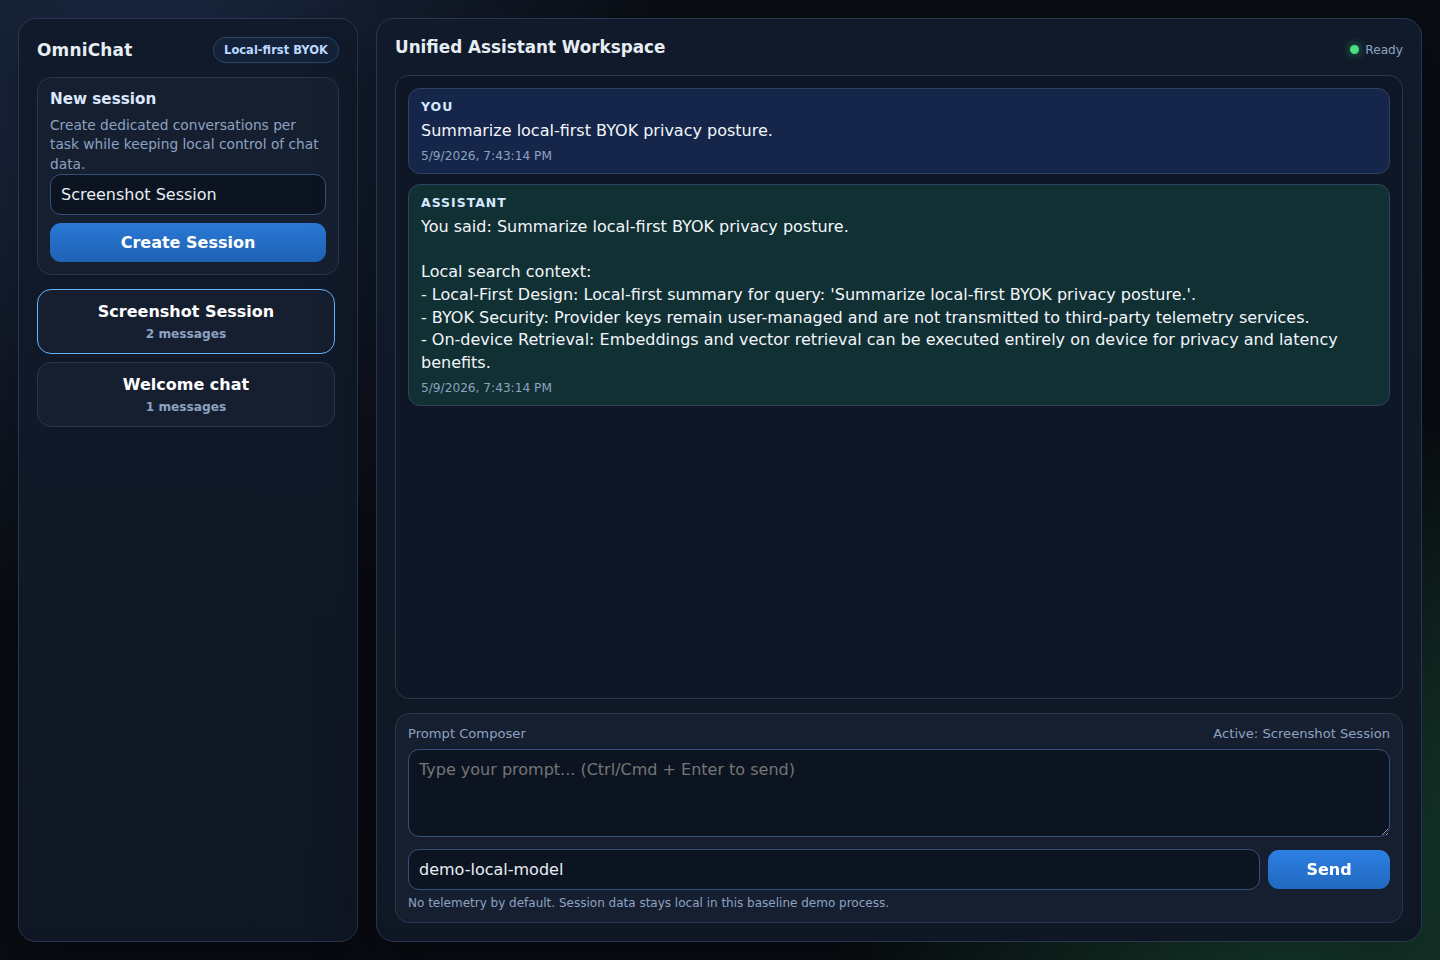
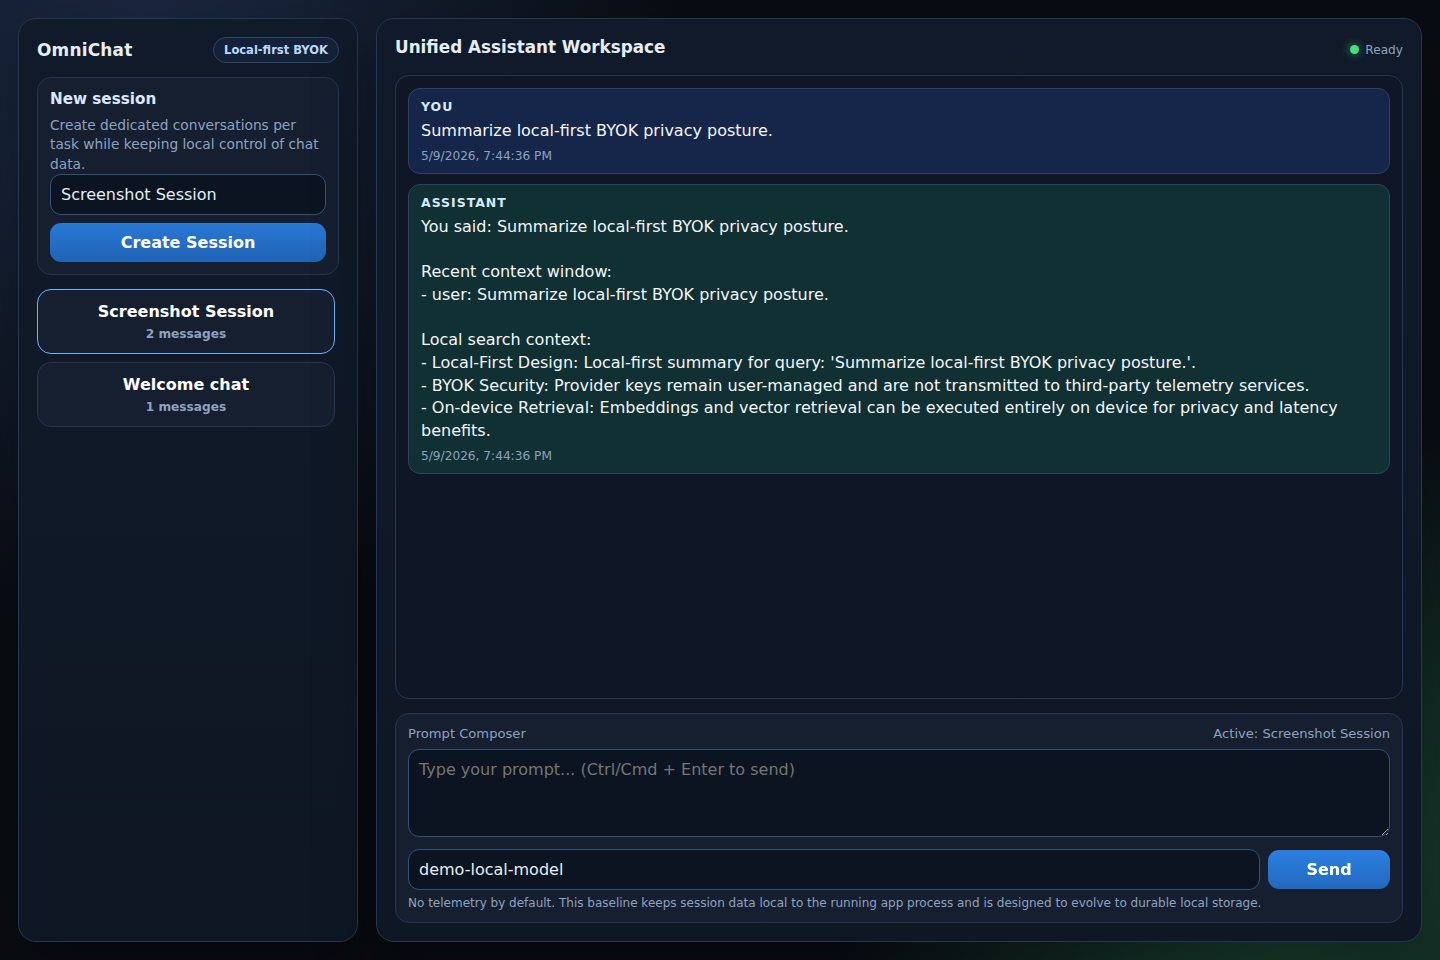
fix: address review feedback on portability and token budgeting
Agent-Logs-Url: https://github.com/kchaitanya863/OmniChat/sessions/a1031c1b-4521-4e93-ab85-afe652b6c09d

Changed region(s): [[0.2812, 0.2812, 0.9688, 0.5], [0.4062, 0.9375, 0.875, 0.9688], [0.3438, 0.1562, 0.375, 0.1875]]

diff --git a/src/OmniChat.Web/wwwroot/index.html b/src/OmniChat.Web/wwwroot/index.html
@@ -328,7 +328,7 @@
           <button id="sendBtn">Send</button>
         </div>
         <div id="errorBox" class="error" role="alert"></div>
-        <div class="hint">No telemetry by default. Session data stays local in this baseline demo process.</div>
+        <div class="hint">No telemetry by default. This baseline keeps session data local to the running app process and is designed to evolve to durable local storage.</div>
       </section>
     </main>
   </div>

diff --git a/src/OmniChat.Core/Services/TokenBudgetManager.cs b/src/OmniChat.Core/Services/TokenBudgetManager.cs
@@ -19,6 +19,14 @@ public static class TokenBudgetManager
             var tokens = TokenEstimator.EstimateTokens(message.Content);
             if (consumed + tokens > tokenBudget)
             {
+                var remaining = tokenBudget - consumed;
+                var truncated = TruncateToApproximateTokens(message.Content, remaining);
+                if (truncated is not null)
+                {
+                    stack.Push(message with { Content = truncated });
+                    consumed = tokenBudget;
+                }
+
                 continue;
             }
 
@@ -27,5 +35,28 @@ public static class TokenBudgetManager
         }
 
         return stack.ToArray();
+    }
+
+    private static string? TruncateToApproximateTokens(string content, int maxTokens)
+    {
+        if (maxTokens <= 0 || string.IsNullOrWhiteSpace(content))
+        {
+            return null;
+        }
+
+        var words = content.Split([' ', '\t', '\n', '\r'], StringSplitOptions.RemoveEmptyEntries);
+        if (words.Length == 0)
+        {
+            return null;
+        }
+
+        var keepWords = Math.Max(1, (int)Math.Floor(maxTokens / 1.3));
+        if (keepWords >= words.Length)
+        {
+            return content;
+        }
+
+        var start = words.Length - keepWords;
+        return "… " + string.Join(' ', words, start, keepWords);
     }
 }

diff --git a/src/OmniChat.Web/Program.cs b/src/OmniChat.Web/Program.cs
@@ -64,8 +64,10 @@ app.MapPost("/api/sessions/{sessionId}/messages", async (
     var userMessage = new ChatMessage("user", request.Content.Trim(), DateTimeOffset.UtcNow, request.ProviderId, request.Model);
     await chats.AddMessageAsync(sessionId, userMessage, cancellationToken);
 
+    var contextForReply = TokenBudgetManager.FitToBudget(session.Messages, 220);
     var evidence = await search.SearchAsync(request.Content, cancellationToken);
-    var reply = $"You said: {request.Content}\n\nLocal search context:\n- {string.Join("\n- ", evidence.Select(e => $"{e.Title}: {e.Snippet}"))}";
+    var shortContext = contextForReply.TakeLast(3).Select(static m => $"{m.Role}: {m.Content}");
+    var reply = $"You said: {request.Content}\n\nRecent context window:\n- {string.Join("\n- ", shortContext)}\n\nLocal search context:\n- {string.Join("\n- ", evidence.Select(e => $"{e.Title}: {e.Snippet}"))}";
 
     var assistantMessage = new ChatMessage("assistant", reply, DateTimeOffset.UtcNow, request.ProviderId, request.Model);
     await chats.AddMessageAsync(sessionId, assistantMessage, cancellationToken);

diff --git a/tests/OmniChat.Core.Tests/CoreServicesTests.cs b/tests/OmniChat.Core.Tests/CoreServicesTests.cs
@@ -34,8 +34,24 @@ public sealed class TokenBudgetTests
 
         var limited = TokenBudgetManager.FitToBudget(messages, tokenBudget: 13);
 
+        Assert.Equal(2, limited.Count);
+        Assert.StartsWith("… ", limited[0].Content, StringComparison.Ordinal);
+        Assert.Equal("latest latest latest latest latest", limited[1].Content);
+    }
+
+    [Fact]
+    public void FitToBudget_IncludesTruncatedMostRecentMessage_WhenNothingFitsFully()
+    {
+        var now = DateTimeOffset.UtcNow;
+        var messages = new List<ChatMessage>
+        {
+            new("user", "alpha beta gamma delta epsilon zeta eta theta", now)
+        };
+
+        var limited = TokenBudgetManager.FitToBudget(messages, tokenBudget: 2);
+
         Assert.Single(limited);
-        Assert.Equal("latest latest latest latest latest", limited[0].Content);
+        Assert.StartsWith("… ", limited[0].Content, StringComparison.Ordinal);
     }
 }
 

diff --git a/scripts/capture_ui_screenshots.py b/scripts/capture_ui_screenshots.py
@@ -18,7 +18,7 @@ from urllib.error import URLError
 
 try:
     from playwright.sync_api import sync_playwright
-except Exception as exc:  # pragma: no cover
+except ImportError as exc:  # pragma: no cover
     print("Playwright is required. Install with: python -m pip install playwright && python -m playwright install chromium")
     raise SystemExit(1) from exc
 
